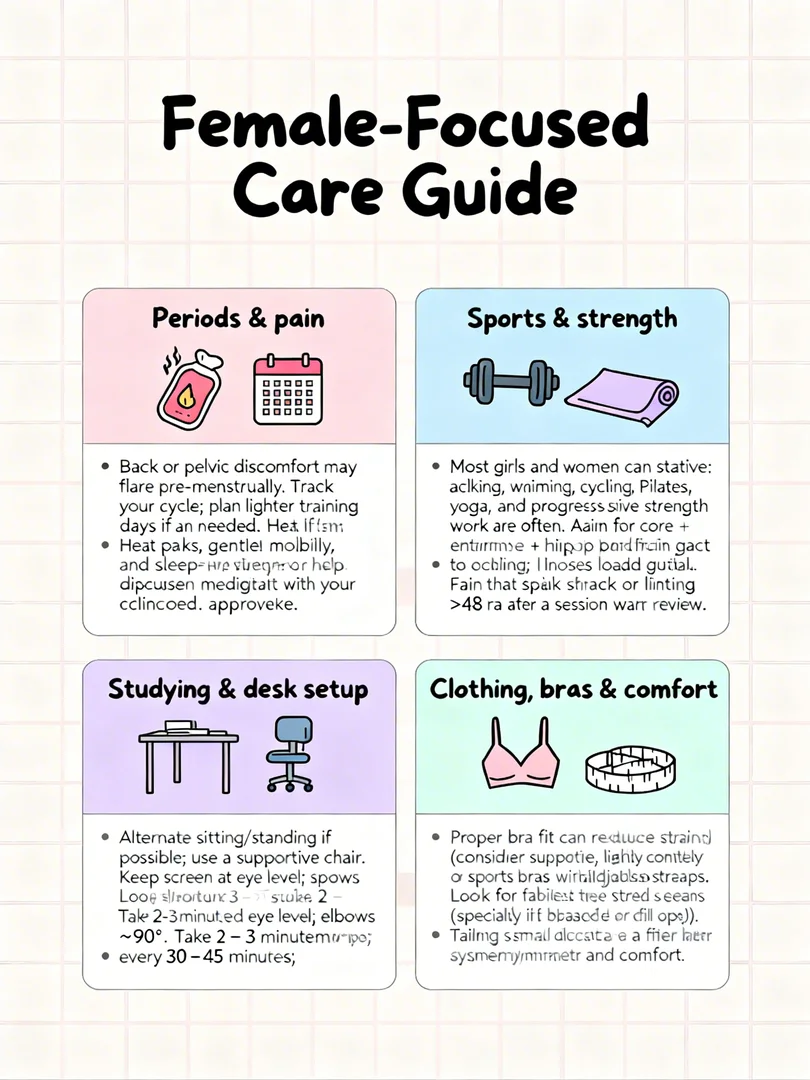
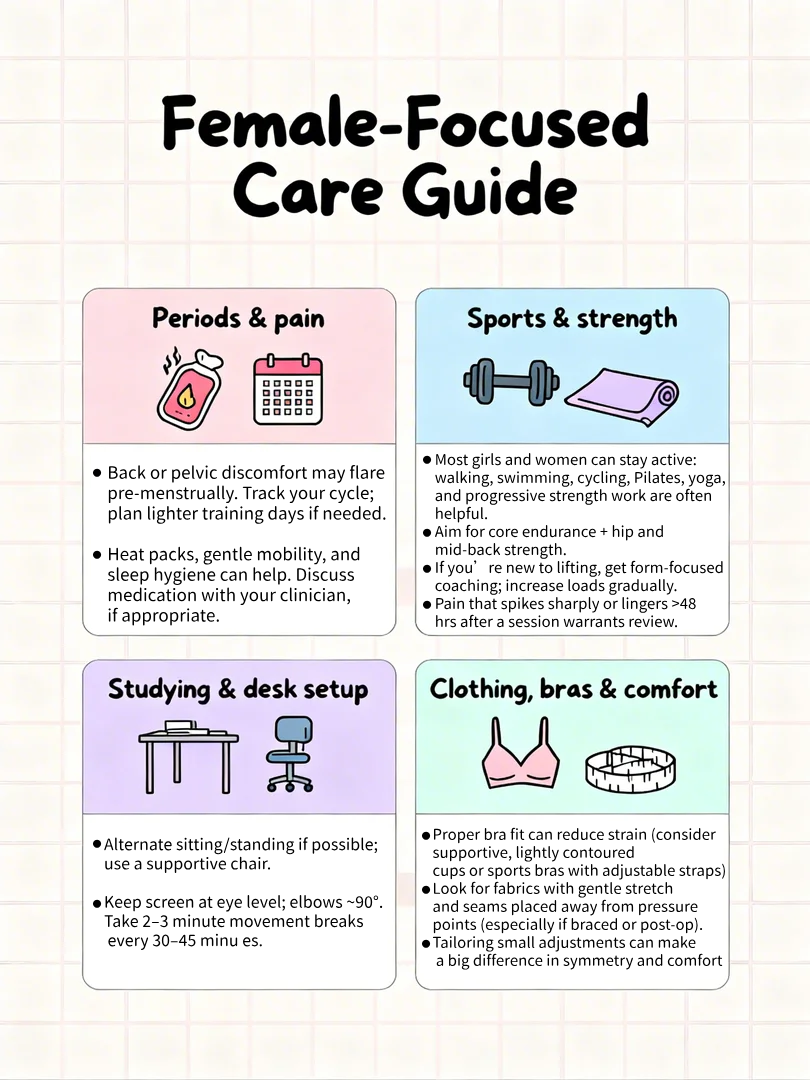
fix images

diff --git a/src/components/BookFlip.js b/src/components/BookFlip.js
@@ -41,18 +41,18 @@ const BookFlip = () => {
   }, [bookRef]);
 
   const imagePages = [
-    { id: 1, image: '/images/1.png', title: 'Scoliosis Sisterhood' },
+    { id: 1, image: '/images/1-2.webp', title: 'Scoliosis Sisterhood' },
     { id: 2, image: '/images/44.webp', title: 'Scoliosis Sisterhood' },
     { id: 3, image: '/images/3.webp', title: 'Scoliosis Sisterhood' },
     { id: 4, image: '/images/45.jpg', title: 'Scoliosis Sisterhood' },
     { id: 5, image: '/images/5.webp', title: 'Scoliosis Sisterhood' },
-    { id: 6, image: '/images/6.png', title: 'Scoliosis Sisterhood' },
-    { id: 7, image: '/images/7.webp', title: 'Scoliosis Sisterhood' },
-    { id: 8, image: '/images/8.webp', title: 'Scoliosis Sisterhood' },
+    { id: 6, image: '/images/6.webp', title: 'Scoliosis Sisterhood' },
+    { id: 7, image: '/images/7-2.webp', title: 'Scoliosis Sisterhood' },
+    { id: 8, image: '/images/8-2.webp', title: 'Scoliosis Sisterhood' },
     { id: 9, image: '/images/9.webp', title: 'Scoliosis Sisterhood' },
-    { id: 10, image: '/images/10.webp', title: 'Scoliosis Sisterhood' },
+    { id: 10, image: '/images/10-2.webp', title: 'Scoliosis Sisterhood' },
     { id: 11, image: '/images/11.webp', title: 'Scoliosis Sisterhood' },
-    { id: 12, image: '/images/12.webp', title: 'Scoliosis Sisterhood' },
+    { id: 12, image: '/images/12-2.webp', title: 'Scoliosis Sisterhood' },
   ];
 
   return (
